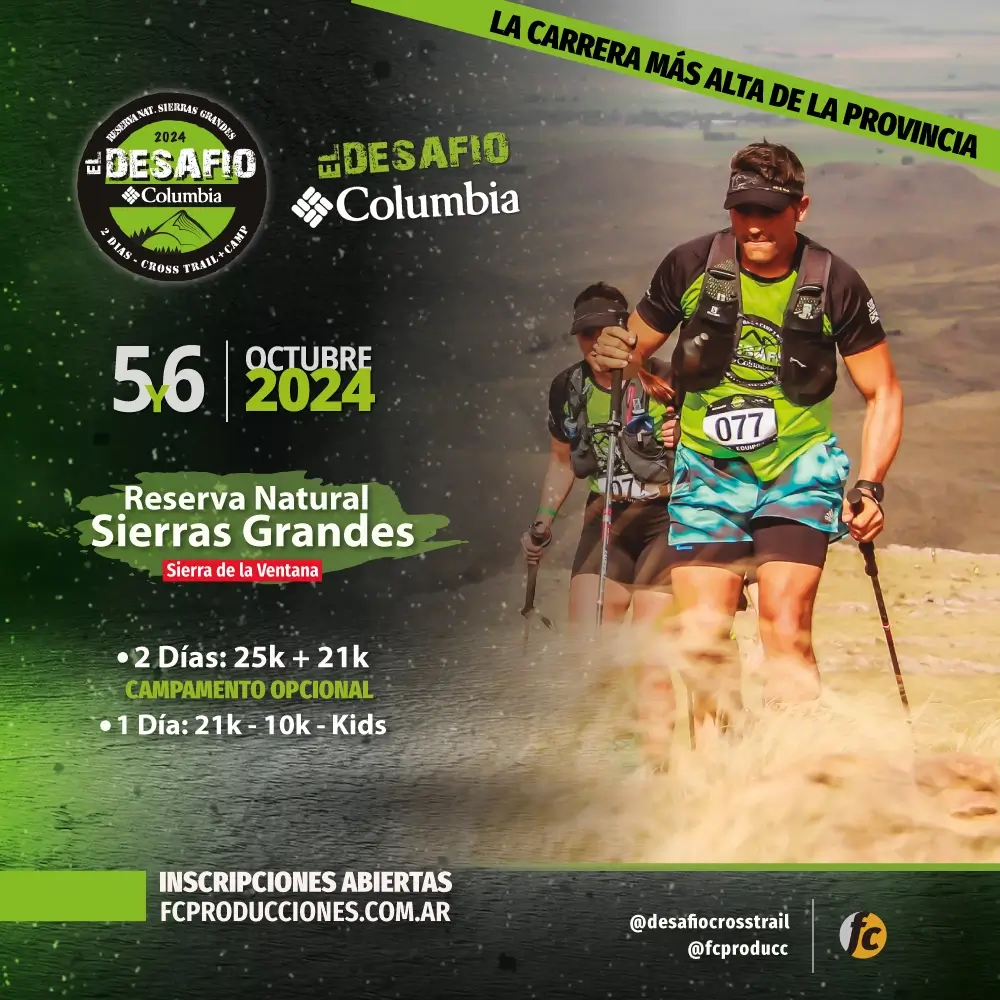
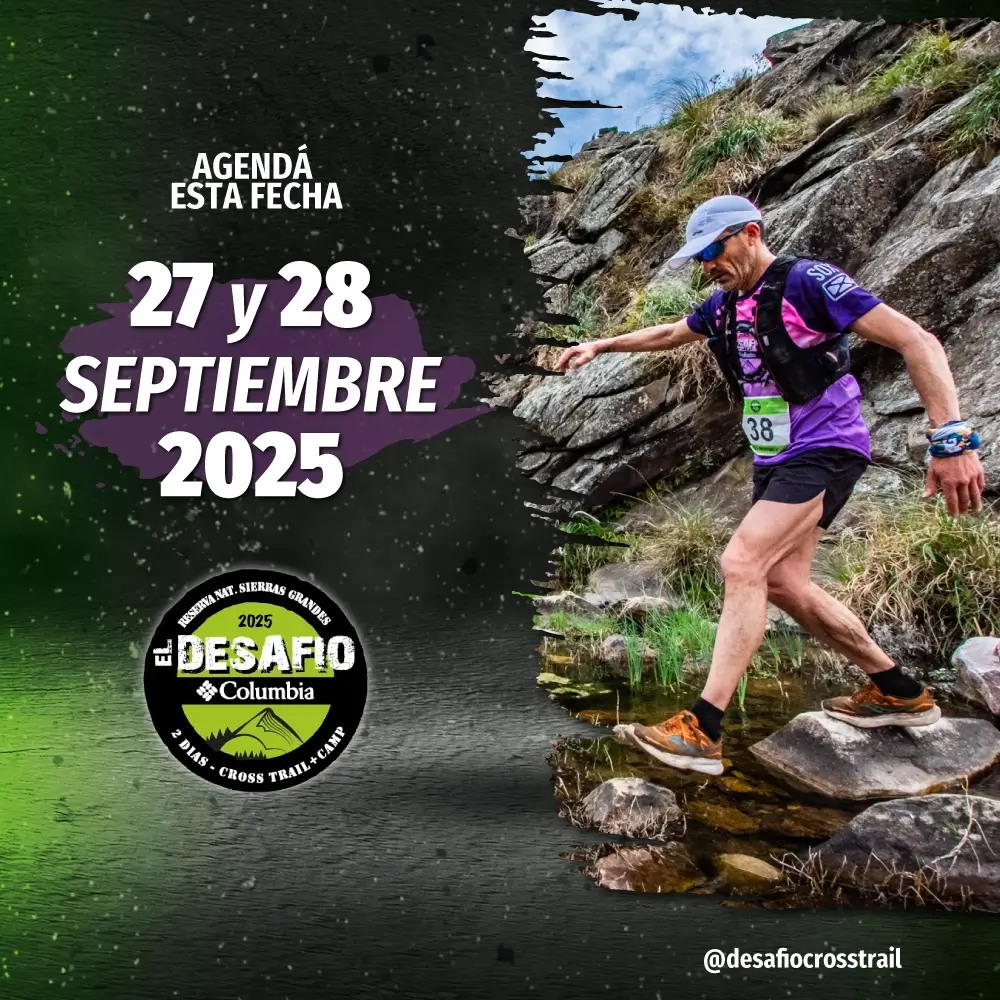
change desafio

diff --git a/src/Components/Carreras/ElDesafio/Index/ElDesafio.js b/src/Components/Carreras/ElDesafio/Index/ElDesafio.js
@@ -50,9 +50,9 @@ function ElDesafio() {
                  </div>
                     
                      <div>
-                    <p className='descripcion'>El Desafío Columbia es una carrera de trail running que sacará tu mejor versión aventurera. Se trata de 2 días de competencia compuesta por 25K el sábado + 21K el domingo, o solo 1 día de 21K, 10K o KIDS el domingo, ambas modalidades con <strong>CAMPAMENTO OPCIONAL (novedad de esta edición 2024)</strong></p>
-                    <p className='descripcion'>El Desafío Columbia de Sierra de la Ventana es la carrera <strong>MÁS ALTA DE LA PROVINCIA</strong> con un ascenso de más de 1.000 metros al Cerro Carpa ¿Te la vas a perder?</p>
-                    <p className='descripcion'>Armar tu carpa, correr, cenar, compartir momentos en el fogón, dormir, desayunar y volver a correr en un contexto de camaradería entre deportistas que buscan lo mismo que vos: vivir una aventura única, en un lugar único, desconectados del estresante día a día. </p>
+                    <p className='descripcion'>El Desafío Columbia es una carrera de trail running que sacará tu mejor versión aventurera. Se trata de 2 días de competencia compuesta por 25K el sábado + 21K el domingo, o solo 1 día de 21K, 10K o KIDS el domingo, ambas modalidades con CAMPAMENTO OPCIONAL</p>
+                    <p className='descripcion'>El Desafío Columbia de Sierra de la Ventana es la carrera MÁS ALTA DE LA PROVINCIA con un ascenso de más de 1.000 metros al Cerro Carpa ¿Te la vas a perder?</p>
+                    <p className='descripcion'>Armar tu carpa, correr, cenar, compartir momentos en el fogón, dormir, desayunar y volver a correr en un contexto de camaradería entre deportistas que buscan lo mismo que vos: vivir una aventura única, en un lugar único, desconectados del estresante día a día.</p>
                     <ul className='redes'>
                     
                       <li><Link to='https://www.instagram.com/desafiocrosstrail/' target='_blank' rel="noopener noreferrer"> <i className="fab fa-instagram"></i></Link></li>
@@ -104,26 +104,26 @@ function ElDesafio() {
                 <ul>
                     <li><strong>Campamento opcional</strong></li>
                 </ul>
-                <p>Este año no será obligatorio el campamento para aquellos que corran la modalidad de 2 días. Seguirá estando tal como se llevaba a cabo en ediciones pasadas: con estadía, desayuno, cena y estacionamiento incluido, pero será opcional. Atentos a la hora de inscribirse. Obvio que lo recomendamos porque es el plus que tiene la carrera, esa desconexión total de quedarse en el paraíso que nos ofrece la Reserva junto a otros corredores es inigualable.</p>
+                <p>No será obligatorio el campamento para aquellos que corran la modalidad de 2 días. Seguirá estando tal como se llevaba a cabo en ediciones pasadas: con estadía, desayuno, cena y estacionamiento incluido, pero será opcional. Atentos a la hora de inscribirse. Obvio que lo recomendamos porque es el plus que tiene la carrera, esa desconexión total de quedarse en el paraíso que nos ofrece la Reserva junto a otros corredores es inigualable.</p>
 
 
                 <h3 id='cartas'>Cartas</h3>
 
                 <p>La acreditación se llevará a cabo el viernes, sábado y domingo únicamente en el Hotel Provincial Sierra de la Ventana.</p>
-                <p>Todo lo que respecta a la carrera, es decir, la largada, llegada y campamento de la modalidad 2 días y 1 día, se realizará íntegramente en la <strong>Reserva Natural Privada Sierras Grandes</strong>, un lugar de ensueño ubicado en Sierra de la Ventana, comarca de Tornquist, provincia de Buenos Aires.</p>
+                <p>Todo lo que respecta a la carrera, es decir, la largada, llegada y campamento de la modalidad 2 días y 1 día, se realizará íntegramente en la <strong>Reserva Natural Privada Sierras Grandes</strong>, un lugar de ensueño ubicado en Sierra de la Ventana, comarca de Tornquist, Provincia de Buenos Aires.</p>
                 <p>La Reserva se encuentra a tan solo 9 kilómetros del Hotel Provincial Sierra de la Ventana (lugar de acreditación ya mencionado). Los que vinieron a correr el año pasado no nos van a dejar mentir: una vez que lleguen se van a enamorar. Y si ya lo conocen, lo mirarán con otros ojos.</p>
 
         
 
                 <h4><mark className='mark'>DATOS GENERALES</mark></h4>
                 <p><strong>Carrera:</strong> El Desafío Columbia Sierra de la Ventana</p>
-                <p><strong>Fecha:</strong> 5 y 6 de octubre 2024</p>
-                <p><strong>Lugar:</strong> Reserva Natural Sierras Grandes, Sierra de la Ventana, comarca de Tornquist, provincia de Buenos Aires</p>
+                <p><strong>Fecha:</strong> 27 y 28 de septiembre 2025</p>
+                <p><strong>Lugar:</strong> Reserva Natural Sierras Grandes, Sierra de la Ventana, comarca de Tornquist, Provincia de Buenos Aires</p>
                 <p><strong>Concepto:</strong> Carrera de trail running</p>
 
                 <h3>Modalidad</h3>
                 <h4><mark className='mark'>DOS MODALIDADES EN UN MISMO FIN DE SEMANA ¡VOS ELEGÍS CUÁL!</mark></h4>
-                <p><strong>- 2 días:</strong> 25K el sábado y 21K el domingo con <strong>campamento opcional</strong> (novedad en esta edición 2024)</p>
+                <p><strong>- 2 días:</strong> 25K el sábado y 21K el domingo con <strong>campamento opcional</strong></p>
                 <p><strong>- 1 día:</strong> 21K, 10K o kids, solo domingo <strong>con campamento opcional</strong></p>
 
                 <h3>INDIVIDUAL O EN EQUIPOS</h3>
@@ -131,11 +131,11 @@ function ElDesafio() {
                 <p><strong>- EQUIPOS:</strong> Únicamente en la modalidad de 2 días y será de 2 integrantes. Puede ser MASCULINO, FEMENINO O MIXTO. Los participantes tendrán que realizar juntos el total del recorrido. Esto puede modificarse y pasar a individual en caso de que no llegue a completarse la cantidad necesaria.</p>
 
                 <h3>CATEGORÍAS</h3>
-                <p><strong>- INDIVIDUAL:</strong> Damas y caballeros (Hasta 35 años / 36 a 45 años / 46 a 55 años / más 56 años)*</p>
+                <p><strong>- INDIVIDUAL:</strong> Damas y caballeros (Hasta 25 años / 26 a 35/  36 a 45 años / 46 a 55 años / 56 a 65 / más 66 años)*</p>
                 <p><strong>- EQUIPO MIXTO:</strong> Sin categoría. *</p>
                 <p><strong>- EQUIPO MASC Y FEM:</strong> Sin categoría. *</p>
                 <p>*Las categorías pueden modificarse en el caso de que se inscriba un grupo grande de corredores en la modalidad.</p>
-                <p><b>LAS EDADES SERÁN COMPUTADAS AL 6 DE OCTUBRE 2024</b></p>
+                <p><b>LAS EDADES SERÁN COMPUTADAS AL 27 DE SEPTIEMBRE DE 2025</b></p>
                 <p>*La edad mínima para poder correr El Desafío Columbia es a partir de los 16 años.</p>
                 <p>*Los menores de 18 años tendrán que llevar una autorización firmada por los padres para poder correr. De lo contrario, no podrán participar.</p>
                 <div className='contenedorBoton'>
@@ -146,7 +146,7 @@ function ElDesafio() {
                 <p>Otorgamos un 10% de descuento en cada inscripción y liberamos únicamente a 1 profesor/a. La condición para obtenerlo es ser 10 corredores o más. Para adquirir los descuentos, <strong>ANTES DE INSCRIBIRSE</strong>, tendrán que enviarnos un mail a <b>info@fcproducciones.com.ar</b> solicitando el CÓDIGO DE INSCRIPCIÓN el cual habilita el descuento. Si se anotan sin pedirlo o sin ingresarlo, no obtendrán el descuento y no podrá aplicarse luego.</p>
 
                 <h3>REMERAS</h3>
-                <p>Los talles de adultos van del XS al XXL. Los de niños del 8 al 14. El talle de remera elegido al momento de inscribirse no tiene cambio.</p>
+                <p>Los talles de adultos van del XS al XXL. Los de niños del 6 al 14. El talle de remera elegido al momento de inscribirse no tiene cambio.</p>
 
                 <h3>LA INSCRIPCIÓN INCLUYE</h3>
                 <ul>
@@ -165,6 +165,13 @@ function ElDesafio() {
                     <li>Premiación para ganadores de las generales</li>
                 </ul>
 
+                <h3>IMPORTANTE: ¿CÓMO ME INSCRIBO?</h3>
+                <p style={{textAlign: "center"}}><strong>INSCRIPCIÓN ONLINE PRÓXIMAMENTE</strong></p>
+                <p style={{textAlign: "center"}}><strong>INSCRIPCIÓN PRESENCIAL PRÓXIMAMENTE</strong></p>
+
+                <h3>COSTOS</h3>
+                <p style={{textAlign: "center"}}><strong>PRÓXIMAMENTE</strong></p>
+
                 {/* <h3>TRASLADO</h3>
 
                 <p>La organización ofrecerá para el SÁBADO y el DOMINGO un traslado desde el HOTEL PROVINCIAL (lugar de acreditaciones) hasta el lugar de la largada para quienes lo necesiten. Será un único horario de ida y un único horario de vuelta. Reservar enviando un mail a <strong>info@fcproducciones.com.ar</strong></p> */}
@@ -173,14 +180,14 @@ function ElDesafio() {
                 <h3>ACREDITACIÓN Y ENTREGA DE KITS</h3>
                 <p>Los 3 días se llevarán a cabo únicamente en el Hotel Provincial Sierra de la Ventana (Drago 130). La Reserva Sierras Grandes, donde se realiza la carrera, se encuentra a tan solo 9 kilómetros del Hotel Provincial.</p> 
 
-                <h4><mark className='mark'>- VIERNES 04/10</mark></h4>
+                <h4><mark className='mark'>- VIERNES 26/09</mark></h4>
                 <p>16 a 19hs: Acreditación a todas las distancias.</p>
 
-                <h4><mark className='mark'>- SÁBADO 05/10</mark></h4>
+                <h4><mark className='mark'>- SÁBADO 27/09</mark></h4>
                 <p>9 a 13hs <mark><strong>NUEVO HORARIO</strong></mark>: Prioridad acreditación para modalidad 2 días.</p>
                 <p>9 a 17hs <mark><strong>NUEVO HORARIO</strong></mark>: Acreditación modalidad 1 día: 21K, 10K y Kids.</p>
 
-                <h4><mark className='mark'>- DOMINGO 06/10</mark></h4>
+                <h4><mark className='mark'>- DOMINGO 28/09</mark></h4>
                 <p>De 7:30 a 8:30 hs: se pueden acreditar quienes no llegaron ni viernes ni sábado. Para evitar complicaciones, recomendamos retirar los días previos.</p>
     
                 <h5>¿CÓMO LLEGAR AL HOTEL PROVINCIAL?</h5>
@@ -191,7 +198,7 @@ function ElDesafio() {
                 
 
                 <h3>¿QUÉ NECESITO PARA RETIRAR MI KIT?</h3>
-                <p>ATENCIÓN: FACILITAMOS EL PROCESO DE INSCRIPCIÓN Y DE ACREDITACIÓN. DENTRO DE LA INSCRIPCIÓN ONLINE DEBERÁN FIRMAR VIRTUALMENTE EL DESLINDE DE RESPONSABILIDAD Y TAMBIÉN SUBIR EL APTO MÉDICO. NO ES OBLIGATORIO HACERLO AL MOMENTO DE INSCRIBIRSE, PUEDE REALIZARSE LUEGO SIEMPRE Y CUANDO SEA ANTES DEL EVENTO. LO PUEDEN HACER INGRESANDO A SU INSCRIPCIÓN DENTRO DEL MAIL DE CONFIRMACIÓN DE EVENTOLS.</p>
+                <p>DENTRO DE LA INSCRIPCIÓN ONLINE DEBERÁN FIRMAR VIRTUALMENTE EL DESLINDE DE RESPONSABILIDAD Y TAMBIÉN SUBIR EL APTO MÉDICO. NO ES OBLIGATORIO HACERLO AL MOMENTO DE INSCRIBIRSE, PUEDE REALIZARSE LUEGO SIEMPRE Y CUANDO SEA ANTES DEL EVENTO. LO PUEDEN HACER INGRESANDO A SU INSCRIPCIÓN DENTRO DEL MAIL DE CONFIRMACIÓN DE EVENTOLS.</p>
                 <p>De completar el proceso de inscripción online como corresponde (esto es: completar los datos, firmar el deslinde ONLINE y adjuntar el apto médico) NO DEBERÁN PRESENTAR NINGUNA DOCUMENTACIÓN EN ACREDITACIÓN. Solo presentarse con el DNI.</p>
                 <p>De lo contrario, deberán llevar para acreditarse y retirar su kit la siguiente documentación: </p>
                 <ol>
@@ -229,13 +236,13 @@ function ElDesafio() {
                 <h3>LUGAR Y HORARIOS DE LARGADA</h3>
 
                 <h4><mark className='mark'>MODALIDAD 2 DÍAS</mark></h4>
-                <p><strong>- DÍA:</strong> SÁBADO 05/10</p>
-                <p><strong>- HORARIO DE SALIDA:</strong> 14 horas <mark>NUEVO HORARIO</mark></p>
+                <p><strong>- DÍA:</strong> SÁBADO 27/09</p>
+                <p><strong>- HORARIO DE SALIDA:</strong> 14 horas</p>
                 <p><strong>- DISTANCIA REAL:</strong> 25 K</p>
                 <p><strong>- MISMO LUGAR DE SALIDA QUE DE LLEGADA:</strong> RESERVA NATURAL SIERRAS GRANDES, TORNQUIST.</p>
 
                 <h4><mark className='mark'>MODALIDAD 2 DÍAS Y 1 DÍA</mark></h4>
-                <p><strong>- DÍA:</strong> DOMINGO 06/10</p>
+                <p><strong>- DÍA:</strong> DOMINGO 28/09</p>
                 <p><strong>- HORARIO DE SALIDA:</strong> 10 horas</p>
                 <p><strong>- DISTANCIAS REALES:</strong> 21K Y 10K</p>
                 <p><strong>- MISMO LUGAR DE SALIDA QUE DE LLEGADA:</strong> RESERVA NATURAL SIERRAS GRANDES, TORNQUIST.</p>
@@ -289,15 +296,17 @@ function ElDesafio() {
                 <p><strong>Bebida:</strong> Gaseosas o agua mineral.</p>
                 <p><strong>Desayuno:</strong> Té, café, mate cocido con o sin leche, tostadas y torta casera.</p> */}
                 <ul>
-                    <li><strong>HORARIO DE CENA SÁBADO 05/10:</strong> 20 a 21:30 horas</li>
-                    <li><strong>HORARIO DE DESAYUNO 06/10:</strong> 7 a 8:30 horas</li>
+                    <li><strong>HORARIO DE CENA SÁBADO 27/09:</strong> 20 a 21:30 horas</li>
+                    <li><strong>HORARIO DE DESAYUNO 28/09:</strong> 7 a 8:30 horas</li>
                 </ul>
              
+             <h3>RECORRIDOS</h3>
+             <p style={{textAlign: "center"}} ><strong>PRÓXIMAMENTE</strong></p>
 
 
-                <h3>RECORRIDO 25K</h3>
+           {/*      <h3>RECORRIDO 25K</h3>
                 
-                {/* <iframe
+             <iframe
                     src="https://www.instagram.com/p/C_wTaRKOPc4/embed"
                     width="400"
                     height="480"
@@ -307,13 +316,13 @@ function ElDesafio() {
                     allow="encrypted-media"
                     className='recorridos'
                 ></iframe>
- */}
 
-                <img src={Imagen25KM} alt='Recorrido 25KM' className='recorridos' />
 
-                <h3>RECORRIDO 21K</h3>
+                <img src={Imagen25KM} alt='Recorrido 25KM' className='recorridos' /> */}
 
-                {/* <iframe
+            {/*     <h3>RECORRIDO 21K</h3>
+
+             <iframe
                     src="https://www.instagram.com/p/C_0Ta_lunWl/embed"
                     width="400"
                     height="480"
@@ -323,13 +332,13 @@ function ElDesafio() {
                     allow="encrypted-media"
                     className='recorridos'
                 ></iframe>
- */}
+ 
 
-                <img src={Imagen21KM} alt='Recorrido 21KM Desafío Sierras' className='recorridos' />
+                <img src={Imagen21KM} alt='Recorrido 21KM Desafío Sierras' className='recorridos' /> */}
 
-                <h3>RECORRIDO 10K</h3>
+               {/*  <h3>RECORRIDO 10K</h3>
 
-               {/*  <iframe
+                 <iframe
                     src="https://www.instagram.com/p/C_9BsyvuV-0/embed"
                     width="400"
                     height="480"
@@ -339,24 +348,24 @@ function ElDesafio() {
                     allow="encrypted-media"
                     className='recorridos'
                 ></iframe>
- */}                
+               
 
-                <img src={Imagen10KM} alt='Recorrido 10KM Desafío Sierras' className='recorridos' />
-
+                <img src={Imagen10KM} alt='Recorrido 10KM Desafío Sierras' className='recorridos' /> */}
+{/* 
                 <h3>VER MAPA INTERACTIVO DE RECORRIDOS</h3>
-                <iframe src="https://www.google.com/maps/d/embed?mid=1CoGqmWVPuxzKioYecP1hZj3ZRE5KkXs&ehbc=2E312F"  width="600" height="450" loading="lazy" className='mapas' title='Mapa interactivo carrera'></iframe>
+                <iframe src="https://www.google.com/maps/d/embed?mid=1CoGqmWVPuxzKioYecP1hZj3ZRE5KkXs&ehbc=2E312F"  width="600" height="450" loading="lazy" className='mapas' title='Mapa interactivo carrera'></iframe> */}
 
                 
 
                 <h3>ALTIMETRÍA</h3>
-                <p  style={{textAlign: "center"}}>(PRÓXIMAMENTE)</p>
+                <p style={{textAlign: "center"}}>PRÓXIMAMENTE</p>
 
                 <h3>RUNNING KIDS</h3>
                 <p>Desde el staff de FC Producciones buscamos otro tipo de carrera para los más chicos. Realizamos una correcaminata controlada con parte de nuestro equipo en donde vamos con todos los chicos juntos, en un gran grupo, frenando en puntos clave, para ir explicando cómo pisar o cómo manejarse en este tipo de eventos. Una especie de introducción pedagógica al trail running.</p>
                 <p>El objetivo es ofrecer a los más chicos la oportunidad de disfrutar de la aventura de forma sana y no competitiva, dándole herramientas para que en un futuro se enamoren del deporte como sus padres.</p>
                 <p>Y justamente sumamos a la familia que quiera acompañar a los más peques para que nadie se lo pierda. La distancia kids no será competitiva, por lo que no tendrá premiación ni clasificación. Sí contará con remera de corredor, hidratación y medalla finisher.</p>
 
-                <h3 id='inscripcion'>IMPORTANTE: ¿CÓMO ME INSCRIBO?</h3>
+               {/*  <h3 id='inscripcion'>IMPORTANTE: ¿CÓMO ME INSCRIBO?</h3>
                 <h4><mark className='mark'>INSCRIPCIÓN ONLINE</mark></h4>
                 <p>Los pasos para inscribirse online son:</p>
                 <ol>
@@ -374,9 +383,9 @@ function ElDesafio() {
                     </Link>
                 </div>
                 </div>
-                </ol>
+                </ol> */}
               
-
+{/* 
                 <h4><mark className='mark'>CÓMO SABER SI REALIZAMOS BIEN EL PROCEDIMIENTO DE INSCRIPCIÓN</mark></h4>
                 <p>Les llegará un mail que dice “Inscripción confirmada” desde Eventols, donde pueden ver el estado de su inscripción, y por ese mismo mail, la clasificación cuando esté disponible. Primero les llegará uno que dice “comenzaste el proceso de inscripción” <u>el cual NO indica que estás confirmado</u>. Si el mail de confirmación no llega es porque no terminaron la inscripción, indicaron mal su correo o porque está en correo no deseado. Si eso sucede, hay que marcarlo como correo deseado y agregarnos a tu lista de contactos.</p>
 
@@ -389,9 +398,9 @@ function ElDesafio() {
                     <li><u>BicyShop Mar del Plata</u>: Av. Independencia 3565. Tel: 0223-474-9816</li>
                     <li><u>La Fe Deportes</u>: Loria 193, Lomas de Zamora. Tel: 11-6069-3133</li>
                     <li><u>Adrogué Outdoors</u>: Av. Mitre 1110, Adrogué. Tel: 4293-6350</li>
-                </ul>
+                </ul> */}
 
-                <h3>COSTOS</h3>
+             {/*    <h3>COSTOS</h3>
                 <h4>¡EN DOS PAGOS SIN INTERÉS! UNO AL INSCRIBIRSE Y EL RESTANTE EN ACREDITACIÓN!</h4>
                 <ul>
                     <li>DOS DÍAS INDIVIDUAL (25K + 21K) CON SERVICIO DE CAMPAMENTO: <strong>$184.000</strong> en dos pagos sin interés de $92.000, uno por transferencia al inscribirse y el otro en EFECTIVO en acreditación.</li>
@@ -412,26 +421,26 @@ function ElDesafio() {
                         </Link>
                     </div>
                     </div>
-                    </ul>
+                    </ul> */}
                
                  
 
                 <h3 id='cronograma'>CRONOGRAMA GENERAL DEL EVENTO</h3>
-               <h4><strong><mark className='mark'>VIERNES 04/10</mark></strong></h4>
+               <h4><strong><mark className='mark'>VIERNES 26/09</mark></strong></h4>
                <ul>
                 <li><strong>16 a 19 hs:</strong> Acreditación y entrega de kits. Hotel Provincial de Sierra de la Ventana, ubicado en Drago 130.</li>
                </ul>
 
-               <h4><strong><mark className='mark'>SÁBADO 05/10</mark></strong></h4>
+               <h4><strong><mark className='mark'>SÁBADO 27/09</mark></strong></h4>
                <ul>
-                <li><strong>9 a 13 hs <mark>NUEVO HORARIO</mark>:</strong> Acreditación y entrega de kits con prioridad para la modalidad 2 días: Hotel Provincial de Sierra de la Ventana.</li>
-                <li><strong>9 a 17 hs <mark>NUEVO HORARIO</mark>:</strong> Acreditación y entrega de kits modalidad 1 día: 21K, 10K y Kids. Hotel Provincial Sierra de la Ventana.</li>
+                <li><strong>9 a 13 hs:</strong> Acreditación y entrega de kits con prioridad para la modalidad 2 días: Hotel Provincial de Sierra de la Ventana.</li>
+                <li><strong>9 a 17 hs:</strong> Acreditación y entrega de kits modalidad 1 día: 21K, 10K y Kids. Hotel Provincial Sierra de la Ventana.</li>
                 <li><strong>13:45 hs:</strong> Charla técnica modalidad 2 días en el arco de largada. Reserva Natural Sierras Grandes, Sierra de la Ventana, Tornquist.</li>
-                <li><strong>14 hs <mark>NUEVO HORARIO</mark>:</strong> Largada de la modalidad de 2 días: 25K. Reserva Natural Sierras Grandes.</li>
+                <li><strong>14 hs:</strong> Largada de la modalidad de 2 días: 25K. Reserva Natural Sierras Grandes.</li>
                 <li><strong>20 a 21:30 hs:</strong> Cena en el campamento de la Reserva Natural Sierras Grandes.</li>
                </ul>
 
-               <h4><strong><mark className='mark'>DOMINGO 06/10</mark></strong></h4>
+               <h4><strong><mark className='mark'>DOMINGO 28/09</mark></strong></h4>
                <ul>
                 <li><strong>7 a 8:30 hs:</strong> Desayuno en el campamento de Reserva Natural Sierras Grandes.</li>
                 <li><strong>7:30 a 8:30 hs:</strong> Acreditación y entrega de kits para la modalidad de 1 día en Hotel Provincial de Sierra de la Ventana.</li>
@@ -512,18 +521,18 @@ function ElDesafio() {
                
               
                 <h4><mark className='mark'>TRANSFERENCIA A OTRO CORREDOR</mark></h4>
-                <p>Hasta el viernes 20/9 inclusive podrán transferir el 100% de lo abonado a otro corredor para la misma edición solicitándolo por mail. O sea, tienen tiempo hasta 15 días antes del evento. </p>
+                <p>Hasta el viernes 12/9 inclusive podrán transferir el 100% de lo abonado a otro corredor para la misma edición solicitándolo por mail. O sea, tienen tiempo hasta 15 días antes del evento. </p>
                 <p>En caso de no avisar con ese tiempo de anticipación se pierde la inscripción, ya que damos por válida la asistencia y reservamos su remera, dorsal, hidratación, seguro y entre otras cuestiones.</p>
 
                 <h4><mark className='mark'>TRANSFERENCIA POR NO PODER PARTICIPAR</mark></h4>
-                <p>Hasta el viernes 20/9 inclusive podrán transferir el 100% de lo abonado a cuenta de la inscripción únicamente de la edición del año siguiente. De optar por esta opción, la inscripción próxima será intransferible para otra edición o participante y no habrá devolución ni total, ni parcial.</p>
+                <p>Hasta el viernes 12/9 inclusive podrán transferir el 100% de lo abonado a cuenta de la inscripción únicamente de la edición del año siguiente. De optar por esta opción, la inscripción próxima será intransferible para otra edición o participante y no habrá devolución ni total, ni parcial.</p>
               
     
                <h3>CAMBIO DE DISTANCIA O DE OTRO TIPO</h3>
                <p>Para los corredores que se inscribieron, en caso de querer cambiar de distancia, tener en cuenta que:</p>
                <ol>
                 <li>Solo se considerarán aquellos casos en que se solicite al mail de la organización: <b>info@fcproducciones.com.ar</b></li>
-                <li>A partir del lunes 23/09 NO se aceptarán más modificaciones en las inscripciones realizadas, ya sea de talle de remera, cambio de distancia o similar.</li>
+                <li>A partir del lunes 15/09 NO se aceptarán más modificaciones en las inscripciones realizadas, ya sea de talle de remera, cambio de distancia o similar.</li>
                 <li>Si el cambio es a una distancia mayor, abona la diferencia del monto de inscripción.</li>
                 <li>Si el cambio es a una distancia menor, NO se le devolverá dinero</li>
                </ol>
@@ -544,6 +553,7 @@ function ElDesafio() {
                     <li>Banderilleros en puntos claves</li>
                 </ul>
 
+
                 <h3>PREMIACIÓN</h3>
                 <p>Todos los participantes que finalicen el recorrido de forma reglamentaria, recibirán medalla finisher.</p>
                 <p>Se premiará cada categoría en sus respectivos primeros 3 puestos, tanto hombre como mujer. También habrá mención para las generales (hombre y mujer) de cada distancia.</p>
@@ -556,7 +566,7 @@ function ElDesafio() {
                 <h3>TOMA DE TIEMPO Y CLASIFICACIONES</h3>
                 <p>La toma de tiempo y clasificación será electrónica con chip. Los participantes deberán utilizar el dorsal (junto con el chip) obligatoriamente durante la carrera por control y seguridad, para poder ser clasificados y tener sus respectivas fotos. El dorsal siempre tiene que estar VISIBLE.</p>
                 <p>El tiempo de los cronómetros comienza con la largada de la competencia y se detiene una vez cruzada la meta.</p>
-                <p>Los resultados se publicarán en esta página, www.fcproducciones.com.ar,  el mismo día a la noche o el día posterior al evento.</p>
+                <p>Los resultados se publicarán en esta página, www.fcproducciones.com.ar, el mismo día a la noche o el día posterior al evento.</p>
 
                 <h3>MEDIO AMBIENTE</h3>
                 <p>Es importante que entre todos preservemos y cuidemos la naturaleza, es nuestro principal requisito. Por eso:</p>
@@ -567,7 +577,7 @@ function ElDesafio() {
                 </ul>
                 <p><strong><mark className='mark'>NO SE PUEDE HACER FUEGO DENTRO DE LA RESERVA NATURAL SIERRAS GRANDES. POR FAVOR NO NOS COMPROMETA.</mark></strong></p>
 
-                <div className='contenedorBoton'>
+             {/*    <div className='contenedorBoton'>
                     <div className='botonIntermedio'>
                         <Link target='_blank' rel="noopener noreferrer" to='https://eventols.com/e/desafio-columbia-sierra-de-la-ventana-2024' className='enlaceBoton'>
                         <Button variant="success" size='lg' className='boton'>
@@ -576,7 +586,7 @@ function ElDesafio() {
                         </Link>
                     </div>
                     </div>
-
+ */}
         </section>
     );
 }

diff --git a/src/Components/Carreras/M42/Index/M42.js b/src/Components/Carreras/M42/Index/M42.js
@@ -397,7 +397,7 @@ function M42() {
                 </ul>
 
                 <h4><mark>DESCUENTO TEAMS DE ENTRENAMIENTO</mark></h4>
-                <p>Otorgamos un 10% de descuento en cada inscripción y liberamos únicamente a 1 profesor/a. La condición para obtenerlo es ser 10 corredores o más. Para adquirir los descuentos: PRIMERO hay que solicitarlo a nuestro mail info@fcproducciones.com.ar, así les enviamos el CÓDIGO DE INSCRIPCIÓN el cual habilita el descuento. Si se anotan sin pedirlo o sin ingresarlo, no obtendrán el descuento y no podrá aplicarse luego.</p> 
+                <p>Otorgamos un 10% de descuento en cada inscripción y liberamos únicamente a 1 profesor/a. La condición para obtenerlo es ser 10 corredores o más. Para adquirir los descuentos: PRIMERO hay que solicitarlo a nuestro WhatsApp (+549-11-5135-6267) o al mail info@fcproducciones.com.ar, así les enviamos el CÓDIGO DE INSCRIPCIÓN el cual habilita el descuento. Si se anotan sin pedirlo o sin ingresarlo, no obtendrán el descuento y no podrá aplicarse luego.</p> 
 
                 <h3>COSTOS</h3>
                    <h4><strong>¡SEGUNDA ETAPA! ¡200 CUPOS!</strong></h4>

diff --git a/src/Components/Carreras/ElDesafioPinamar/ElDesafioPinamar.js b/src/Components/Carreras/ElDesafioPinamar/ElDesafioPinamar.js
@@ -109,7 +109,7 @@ function ElDesafioPinamar() {
           </div> 
 
           <h3>DESCUENTO PARA TEAMS DE ENTRENAMIENTO</h3>
-          <p>Otorgamos un 10% de descuento en cada inscripción y liberamos únicamente a 1 profesor/a. La condición para obtenerlo es ser 10 corredores o más. Para adquirir los descuentos, ANTES DE INSCRIBIRSE, tendrán que enviarnos un mail a <b>info@fcproducciones.com.ar</b> solicitando el CÓDIGO DE INSCRIPCIÓN, el cual habilita el descuento. Si se anotan sin pedirlo o sin ingresarlo, no obtendrán el descuento y no podrá aplicarse luego.</p>
+          <p>Otorgamos un 10% de descuento en cada inscripción y liberamos únicamente a 1 profesor/a. La condición para obtenerlo es ser 10 corredores o más. Para adquirir los descuentos, PRIMERO hay que solicitarlo a nuestro WhatsApp (+549-11-5135-6267) o al mail info@fcproducciones.com.ar, así les enviamos el CÓDIGO DE INSCRIPCIÓN, el cual habilita el descuento. Si se anotan sin pedirlo o sin ingresarlo, no obtendrán el descuento y no podrá aplicarse luego.</p>
 
 
           <h3>LA INSCRIPCIÓN INCLUYE</h3>
